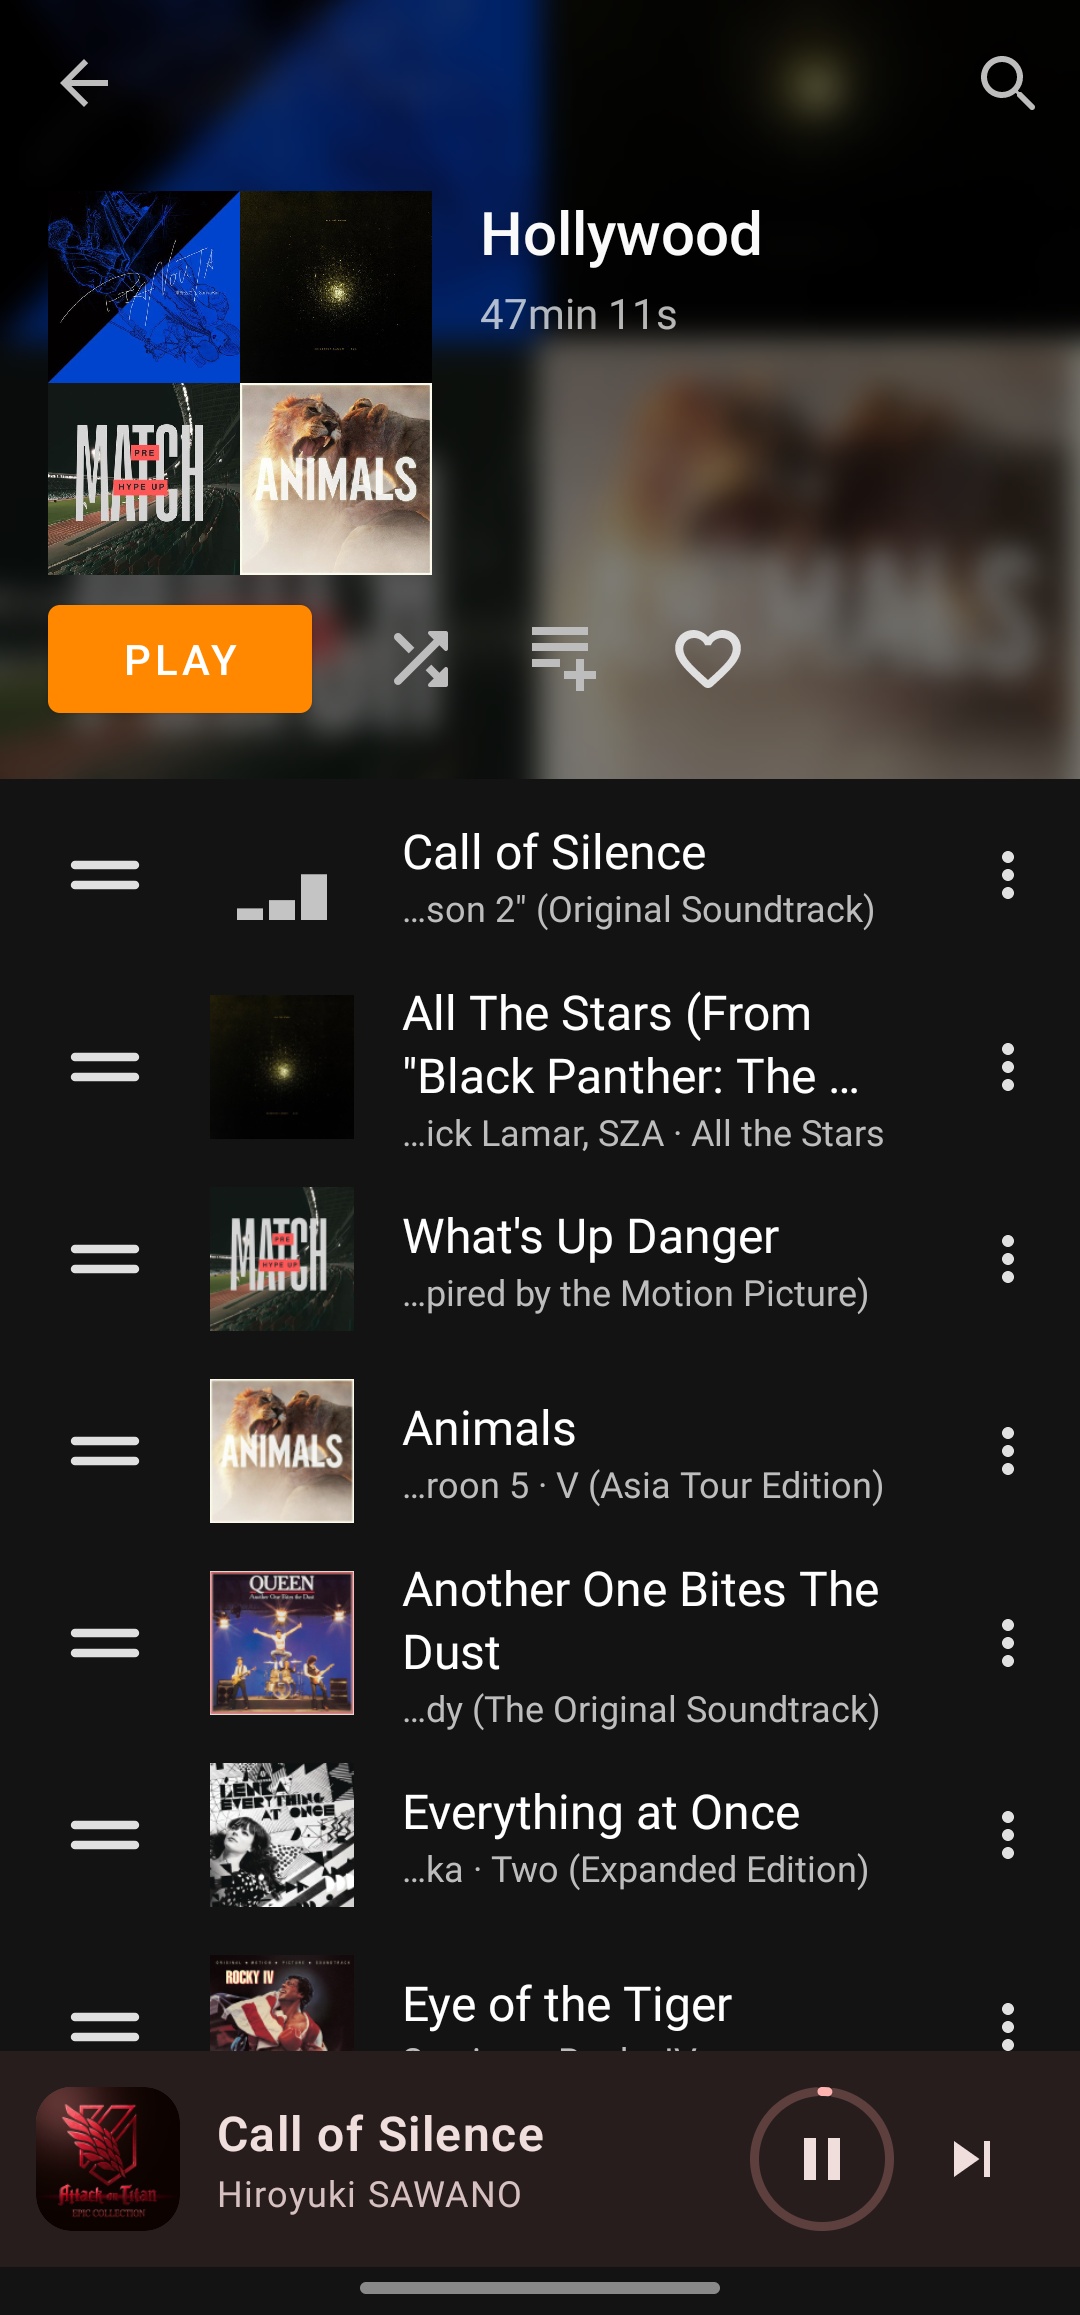
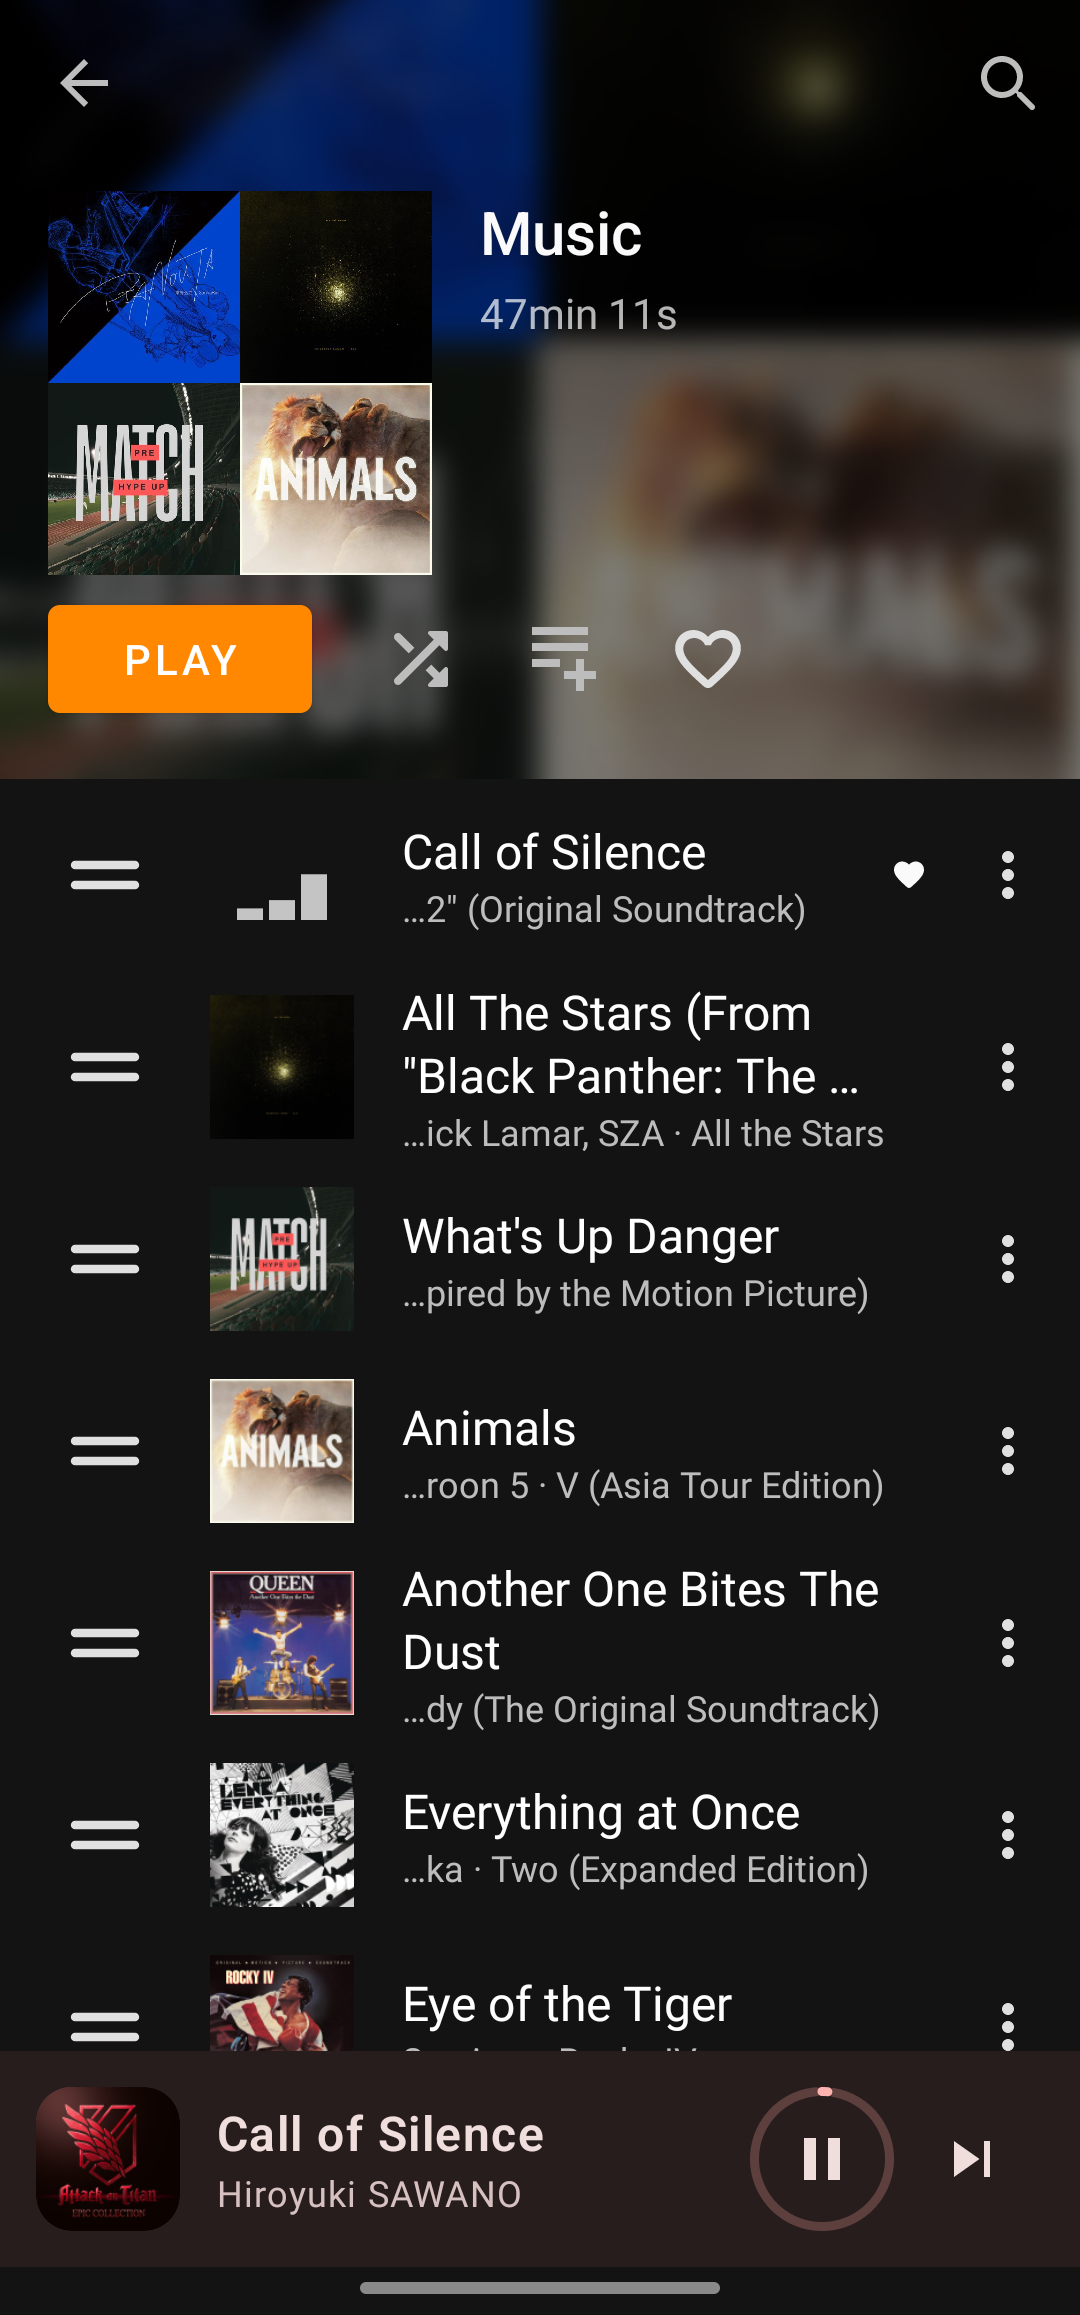
Retake music screenshots with a plain Music playlist

Changed region(s): [[0.3972, 0.3732, 0.7944, 0.4043], [0.4583, 0.0933, 0.7028, 0.1244], [0.825, 0.3732, 0.8556, 0.4043]]

diff --git a/README.md b/README.md
@@ -15,7 +15,7 @@ and an API your AI assistant can use to manage your library.**
 &nbsp;
 <img src="docs/screenshots/music-visualizer-ring.png" alt="Now Playing with the pulsing ring visualizer" width="230">
 &nbsp;
-<img src="docs/screenshots/music-hollywood-playlist.png" alt="A playlist with cover art" width="230">
+<img src="docs/screenshots/music-playlist.png" alt="A playlist with cover art" width="230">
 
 </div>
 
